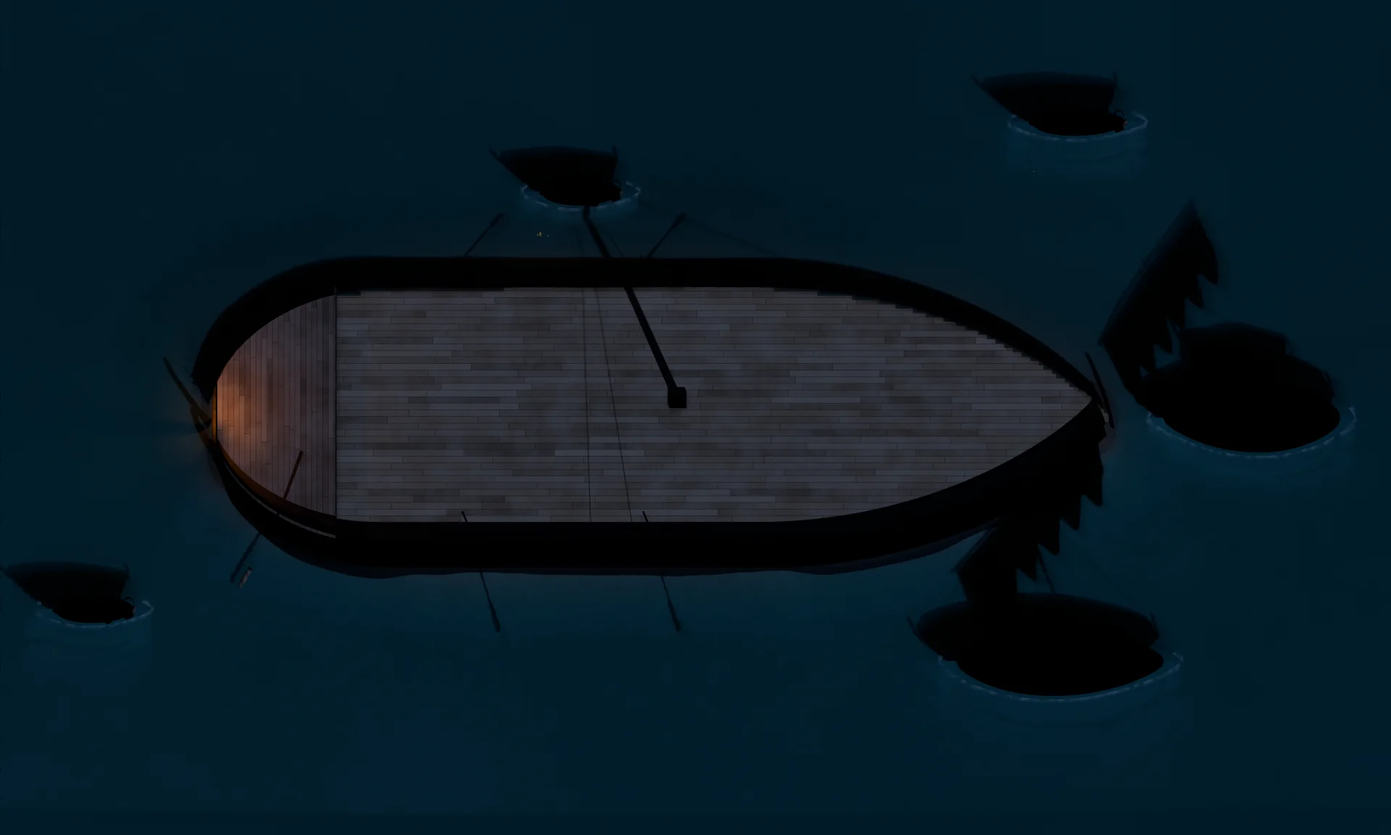
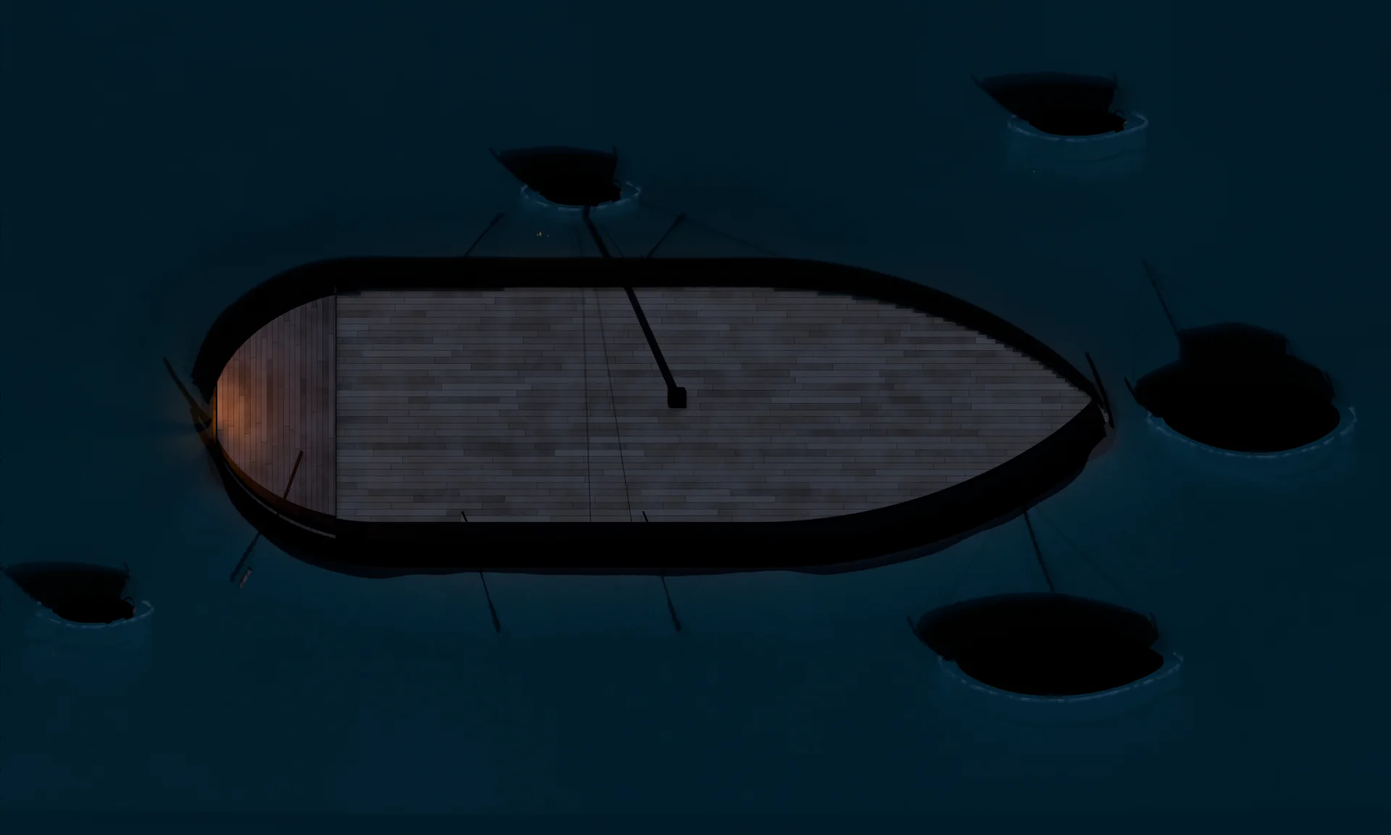
fix(art): the boats around take in their sails when the storm breaks
On the open lake the teacher's boat and the fishing boat kept their sails set
through the squall. Their yards and sails are now story sprites of their own
(sail-set, sail-furled in the open lake's content), shown by the same flag
that brings the storm (storm-broke): set before the squall, the yard lowered
and the sail furled on it from the squall on, and not set again in the calm.
The boats are built without them (lake_boats._yard, entity_sail_set,
entity_sail_furled). A sprite can now go without a shadow catcher
(Sprite(shadow=False)): a sail's shadow would fall on open water. Re-rendered
the open lake's night set. Content test: each boat shows exactly one sail,
never set in the storm.

Also: the guide for the shore, the lake, the fire and the colonnade, sizes;
the storm capture spec waits for the lake rather than for no conversation.

Changed region(s): [[0.7812, 0.25, 0.875, 0.4688], [0.6875, 0.5312, 0.8125, 0.7188]]

diff --git a/tests/content/storm-on-galilee.test.ts b/tests/content/storm-on-galilee.test.ts
@@ -4,6 +4,7 @@ import { chapterSource, parseChapter } from '@/content';
 import { STORM_ON_GALILEE } from '@/content/chapters/storm-on-galilee';
 import { contentReport, reachabilityIssues } from '@/content/validation';
 import { validateChapterIntegrity } from '@/domain/chapter-integrity';
+import { evaluate } from '@/domain/conditions';
 import { weatherOf } from '@/domain/weather';
 import { isSolidTile, parseLayout, type TileKind } from '@/domain/world';
 import { groundColor } from '@/game/art/terrain';
@@ -183,6 +184,41 @@ describe('A Storm on Galilee — content', () => {
     const shore = scene('capernaum-shore');
     expect(weatherOf(shore, makeState())).toBe('wind');
     expect(weatherOf(shore, makeState({ flags: { evening: true } }))).toBe('clear');
+  });
+
+  it('takes in the other boats’ sails when the storm breaks, and never sets them in it', () => {
+    const lake = scene('open-lake');
+    const grid = parseLayout(lake);
+    const sails = lake.entities.filter(
+      (e) => e.sprite === 'sail-set' || e.sprite === 'sail-furled',
+    );
+    // One set sail and one furled for each boat that carries a sail, on its tiles.
+    expect(sails.length).toBeGreaterThanOrEqual(4);
+    for (const s of sails) expect(grid.tiles[s.y]?.[s.x], s.id).toBe('boat');
+    for (const flags of [
+      [],
+      ['wind-rising'],
+      ['wind-rising', 'storm-broke'],
+      ['wind-rising', 'storm-broke', 'great-calm'],
+    ]) {
+      const state = makeState({ flags: Object.fromEntries(flags.map((f) => [f, true])) });
+      const storm = weatherOf(lake, state) === 'storm';
+      for (const s of sails) {
+        const shown = evaluate(s.visibleWhen, state);
+        // Set before the squall; taken in from the squall on (and left so in the calm).
+        const expected =
+          s.sprite === 'sail-set' ? !flags.includes('storm-broke') : flags.includes('storm-broke');
+        expect(shown, `${s.id} with ${flags.join(',') || 'nothing'}`).toBe(expected);
+        if (storm) expect(s.sprite === 'sail-set' && shown, `${s.id} set in the storm`).toBe(false);
+      }
+      // Each boat shows exactly one of its two sails.
+      for (const base of new Set(sails.map((s) => s.id.replace(/-sail(-furled)?$/, ''))))
+        expect(
+          sails.filter((s) => s.id.startsWith(`${base}-sail`) && evaluate(s.visibleWhen, state))
+            .length,
+          base,
+        ).toBe(1);
+    }
   });
 
   it('builds its places from tile kinds that name real things, all of which the painter knows', () => {

diff --git a/src/content/chapters/storm-on-galilee/scenes/open-lake.ts b/src/content/chapters/storm-on-galilee/scenes/open-lake.ts
@@ -16,6 +16,15 @@ const storm = (option: string): Condition => ({
 });
 const talked = (dialogue: string): Condition => ({ type: 'conversationDone', dialogue });
 
+/** The squall has broken: the lake's storm (weatherChanges) and every boat's sail taken in. */
+const STORM_BROKE = flag('storm-broke');
+
+/** The other boats big enough to carry a sail (a tile of each: see the layout). */
+const OTHER_BOATS = [
+  { id: 'teacher-boat', label: 'The teacher’s boat', x: 36, y: 11 },
+  { id: 'fishing-boat', label: 'A fishing boat', x: 29, y: 18 },
+] as const;
+
 /** Wind rises once you've been under way a little while: after any talk, or a walk forward. */
 const GUST_EFFECTS: Effect[] = [
   { type: 'setFlag', flag: 'wind-rising', value: true },
@@ -289,6 +298,31 @@ export const OPEN_LAKE: ChapterInput['scenes'][number] = {
         effects: [{ type: 'openPuzzle', puzzle: 'p-sail' }],
       },
     },
+    // ── The other boats' sails: set in the evening air, taken in when the
+    // squall breaks (the same story state that brings the storm), and not
+    // set again in the calm. Drawn with the boats' art only.
+    ...OTHER_BOATS.flatMap(({ id, label, x, y }) => [
+      {
+        id: `${id}-sail`,
+        kind: 'feature' as const,
+        label: `${label}: its sail set`,
+        sprite: 'sail-set',
+        x,
+        y,
+        solid: false,
+        visibleWhen: not(STORM_BROKE),
+      },
+      {
+        id: `${id}-sail-furled`,
+        kind: 'feature' as const,
+        label: `${label}: its sail taken in`,
+        sprite: 'sail-furled',
+        x,
+        y,
+        solid: false,
+        visibleWhen: STORM_BROKE,
+      },
+    ]),
     {
       id: 'bow',
       kind: 'feature',
@@ -353,7 +387,7 @@ export const OPEN_LAKE: ChapterInput['scenes'][number] = {
   weather: 'clear',
   weatherChanges: [
     { when: flag('wind-rising'), weather: 'wind' },
-    { when: flag('storm-broke'), weather: 'storm' },
+    { when: STORM_BROKE, weather: 'storm' },
     { when: flag('great-calm'), weather: 'clear' },
   ],
 };

diff --git a/src/game/art/props.ts b/src/game/art/props.ts
@@ -824,6 +824,13 @@ const PAINTERS: Record<string, Painter> = {
   },
   /** Invisible: for interactive spots on tiles that already draw themselves (wells, cairns). */
   none: () => undefined,
+  /**
+   * A boat's sail, set or taken in as the story goes: pre-rendered with the
+   * boat (tools/art/lib/lake_boats.py). A painted boat draws its own mast and
+   * sail (boats.ts), so in a painted place these draw nothing.
+   */
+  'sail-set': () => undefined,
+  'sail-furled': () => undefined,
 };
 
 /** Whether a sprite name has a painter (content tests use this to catch typos). */

diff --git a/e2e/storm-art.spec.ts b/e2e/storm-art.spec.ts
@@ -146,8 +146,9 @@ for (const vp of VIEWPORTS) {
         timeout: 20_000,
       });
       await shot('shore-evening', 2500);
+      // The boats put out: the lake's arrival narration may open at once, so
+      // wait for the place rather than for no conversation.
       await continueDialogue(page);
-      await endDialogue(page);
       await expectScene(page, 'Out on the lake');
       await shot('lake-arrival', 300);
       await page.waitForTimeout(400);

diff --git a/tools/art/lib/lake_boats.py b/tools/art/lib/lake_boats.py
@@ -235,9 +235,10 @@ class BoatsMixin:
         _loft(bm, rings, closed=True)
         return common.mesh_object(name, bm, mat, None)
 
-    def _boat_parts(self, name, L, B, xf, afloat, rig, rng, gear=True, lamp=False, teacher=False):
+    def _boat_parts(self, name, L, B, xf, afloat, rig, rng, gear=True, lamp=False, teacher=False, yard=True):
         """Every part of one boat, as (above, below): the objects above the
-        waterline (its sprite) and those below it (ground, afloat only)."""
+        waterline (its sprite) and those below it (ground, afloat only).
+        `yard`: False when the story shows its yard and sail (_yard)."""
         L_HULL = LM.hull_paint("#5c4634", name="hull-outside")
         inner = LM.planks("#806850", "hull-inside", along="X", width=0.16, length=2.2, worn=0.2)
         hull = self._hull_mesh(f"{name}-hull", L, B, xf, L_HULL, inner)
@@ -317,7 +318,7 @@ class BoatsMixin:
             bench.matrix_world = Matrix.Identity(4)
             above.append(bench)
         if rig and L >= 4.0:
-            above += self._rig(name, L, B, xf, rig, rng, teacher=teacher)
+            above += self._rig(name, L, B, xf, rig, rng, teacher=teacher, yard=yard)
         if gear:
             above += self._boat_gear(name, L, B, xf, afloat, rng, rig == "lowered")
         if afloat and not teacher and rig != "lowered":
@@ -408,9 +409,11 @@ class BoatsMixin:
         base.name = name
         return base
 
-    def _rig(self, name, L, B, xf, rig, rng, teacher=False):
+    def _rig(self, name, L, B, xf, rig, rng, teacher=False, yard=True):
         """Mast, yard and sail: stepped and standing with the sail furled on
-        the yard (moored), or lowered along the boat (drawn up)."""
+        the yard (moored), or set (sailing), or lowered along the boat (drawn
+        up). With `yard` False, only the mast and its standing rigging: the
+        story shows the yard and sail (`_yard`, set or taken in)."""
         out = []
         spar = M.wood("#6a5238", 3.5)
         # Linen greyed and browned by years of sun and lake water.
@@ -419,7 +422,6 @@ class BoatsMixin:
         u_mast = 0.64
         hb, sheer, keel = self.hull_shape(u_mast, L, B)
         mast_h = min(7.2, 0.82 * L + 0.4)
-        yard = min(7.5, 0.86 * L)
         base = Vector((-L / 2 + u_mast * L, 0.0, keel + 0.2))
         if rig == "lowered":
             # Mast lying along the thwarts, yard beside it with the sail rolled on it.
@@ -433,25 +435,8 @@ class BoatsMixin:
             return out
         top = base + Vector((0, 0, mast_h))
         out.append(self._branch(f"{name}-mast", xf @ base, xf @ top, 0.075 * min(1.0, L / 8), 0.05 * min(1.0, L / 8), spar, 10, bow=0.0))
-        if rig == "moored":
-            # At rest: the yard lowered and lashed along the thwarts, the sail
-            # furled on it, the mast standing bare.
-            a2 = xf @ Vector((-L * 0.36, -0.12, sheer + 0.02))
-            b2 = xf @ Vector((L * 0.4, -0.08, sheer + 0.05))
-            out.append(self._branch(f"{name}-yard", a2, b2, 0.045, 0.04, spar, 8, bow=0.0))
-            out.append(self._furled(f"{name}-furl", a2 + Vector((0, 0, 0.1)), b2 + Vector((0, 0, 0.1)), sail, rng, r=0.13))
-        else:
-            # Under way: the yard up and braced round to the wind, the sail
-            # half brailed up beneath it.
-            yz = mast_h - 0.35
-            brace = math.radians(38.0)
-            d = Vector((math.sin(brace), math.cos(brace), 0.0))
-            c = base + Vector((0.08, 0.0, yz))
-            ya = xf @ (c + d * yard / 2)
-            yb = xf @ (c - d * yard / 2)
-            out.append(self._branch(f"{name}-yard", ya, yb, 0.045, 0.04, spar, 8, bow=-0.06))
-            fwd = (xf.to_3x3() @ Vector((1.0, 0.0, 0.0))).normalized()
-            out.append(self.square_sail(f"{name}-sail", (ya + yb) / 2 + Vector((0, 0, -0.06)), (ya - yb).normalized(), yard - 0.3, min(2.6, 0.4 * L), fwd, sail))
+        if yard:
+            out += self._yard(name, L, B, xf, "furled" if rig == "moored" else "set", rng)
         # Standing rigging: shrouds to both rails, a forestay, the halyard.
         mh = xf @ (base + Vector((0, 0, mast_h - 0.1)))
         for side in (1, -1):
@@ -463,6 +448,62 @@ class BoatsMixin:
         out.append(self._branch(f"{name}-halyard", mh, xf @ Vector((-L / 2 + 0.5, 0.0, sheer_s)), 0.007, 0.007, rope, 4, bow=0.0))
         _ = teacher
         return out
+
+    def _yard(self, name, L, B, xf, state, rng):
+        """A boat's yard and sail. `set`: under way, the yard up and braced
+        round to the wind, the sail half brailed up beneath it. `furled`: at
+        rest, or with the sail taken in against a squall: the yard lowered
+        and lashed along the thwarts, the sail furled on it, the mast bare."""
+        spar = M.wood("#6a5238", 3.5)
+        sail = LM.linen("#a89c82", "sail-linen-worn")
+        u_mast = 0.64
+        _hb, sheer, keel = self.hull_shape(u_mast, L, B)
+        mast_h = min(7.2, 0.82 * L + 0.4)
+        length = min(7.5, 0.86 * L)
+        base = Vector((-L / 2 + u_mast * L, 0.0, keel + 0.2))
+        if state == "furled":
+            a2 = xf @ Vector((-L * 0.36, -0.12, sheer + 0.02))
+            b2 = xf @ Vector((L * 0.4, -0.08, sheer + 0.05))
+            return [
+                self._branch(f"{name}-yard", a2, b2, 0.045, 0.04, spar, 8, bow=0.0),
+                self._furled(f"{name}-furl", a2 + Vector((0, 0, 0.1)), b2 + Vector((0, 0, 0.1)), sail, rng, r=0.13),
+            ]
+        yz = mast_h - 0.35
+        brace = math.radians(38.0)
+        d = Vector((math.sin(brace), math.cos(brace), 0.0))
+        c = base + Vector((0.08, 0.0, yz))
+        ya = xf @ (c + d * length / 2)
+        yb = xf @ (c - d * length / 2)
+        fwd = (xf.to_3x3() @ Vector((1.0, 0.0, 0.0))).normalized()
+        return [
+            self._branch(f"{name}-yard", ya, yb, 0.045, 0.04, spar, 8, bow=-0.06),
+            self.square_sail(f"{name}-sail", (ya + yb) / 2 + Vector((0, 0, -0.06)), (ya - yb).normalized(), length - 0.3, min(2.6, 0.4 * L), fwd, sail),
+        ]
+
+    def _story_sails(self, fp):
+        """The story's sail entities on a boat (sprites `sail-set` and
+        `sail-furled`, shown as the story goes): its yard and sail are theirs."""
+        tiles = set(map(tuple, fp["tiles"]))
+        return [e for e in self.map.entities if e.get("sprite") in ("sail-set", "sail-furled") and (e["x"], e["y"]) in tiles]
+
+    def entity_sail_set(self, name, x, y, e=None):
+        """The yard and sail of the boat under (x, y), set: shown until the squall."""
+        return self._story_yard(name, x, y, "set")
+
+    def entity_sail_furled(self, name, x, y, e=None):
+        """The yard and sail of the boat under (x, y), taken in: shown from the squall on."""
+        return self._story_yard(name, x, y, "furled")
+
+    def _story_yard(self, name, x, y, state):
+        rig = next((r for r in getattr(self, "_story_rigs", []) if (x, y) in r["tiles"]), None)
+        if rig is None:
+            return None
+        objs = self._yard(name, rig["L"], rig["B"], rig["xf"], state, common.rng(int(x * 131 + y * 17)))
+        for o in objs:
+            o["wl_z"] = rig["zb"]
+        # Sorted with its boat; no shadow of its own (it would fall on open
+        # water, whose terrain is the lake bed); faded like the boat's rig.
+        return objs, rig["south"] * 32.0, False, {"shadow": False, "fade": True}
 
     def _furled(self, name, a, b, mat, rng, r=0.14):
         """A sail gathered up on its yard: a long lumpy roll with the brails
@@ -622,7 +663,10 @@ class BoatsMixin:
                 # Heeled a little onto its bilge.
                 xf = xf @ Matrix.Rotation(0.06 * (1 if rng.random() < 0.5 else -1), 4, "X")
             is_teacher = teacher is not None and fp is teacher
-            above, below = self._boat_parts(name, L, B, xf, fp["afloat"], rig, rng, gear=not is_teacher, lamp=fp["afloat"] and not is_teacher and bool(self.map.tiles("deck")), teacher=is_teacher)
+            # A boat whose sail the story sets and takes in (entity_sail_set,
+            # entity_sail_furled) is built without its yard and sail.
+            story = rig == "sailing" and bool(self._story_sails(fp))
+            above, below = self._boat_parts(name, L, B, xf, fp["afloat"], rig, rng, gear=not is_teacher, lamp=fp["afloat"] and not is_teacher and bool(self.map.tiles("deck")), teacher=is_teacher, yard=not story)
             for o in below:
                 self.to_ground(o)
             if fp["afloat"]:
@@ -636,6 +680,8 @@ class BoatsMixin:
             # The ground line: the south edge of the hull at the waterline.
             south = cy + (B / 2 if fp["horizontal"] else L / 2)
             self.sprite(name, south, above, fp["tiles"], fade=rig in ("sailing", "moored"))
+            if story:
+                self._story_rigs = getattr(self, "_story_rigs", []) + [{"tiles": set(map(tuple, fp["tiles"])), "L": L, "B": B, "xf": xf, "zb": zb, "south": south}]
 
     def _teacher_boat(self):
         """The boat the crowd listens to (people sitting on the beach facing

diff --git a/tools/art/lib/place.py b/tools/art/lib/place.py
@@ -192,9 +192,13 @@ class Sprite:
       not cast shadows into the ground layer or onto other sprites; it
       carries its own shadow instead (a shadow catcher under it);
     - `flat`: lies on the ground (prints, a mat): anyone standing on it
-      draws over it, so its base is its northern edge."""
+      draws over it, so its base is its northern edge;
+    - `shadow`: a conditional thing carries its own shadow on a catcher
+      laid on the terrain under it; False for one whose shadow would fall
+      where no catcher can hold it (a sail over open water, whose terrain
+      is the lake bed)."""
 
-    def __init__(self, sid, base, objects, tiles=None, conditional=False, flat=False, fade=False):
+    def __init__(self, sid, base, objects, tiles=None, conditional=False, flat=False, fade=False, shadow=True):
         self.id = sid
         self.base = base
         self.objects = objects
@@ -203,6 +207,7 @@ class Sprite:
         self.flat = flat
         # A canopy (a palm's crown): the game fades it while someone walks behind it.
         self.fade = fade
+        self.shadow = shadow
 
 
 def value_noise(w, h, cell, seed):
@@ -604,8 +609,10 @@ class Place(LakeKit, VillageKit, RomanKit, GroundKit, MasonryKit, PropsKit, Plan
             made = maker(sid, e["x"], e["y"], e)
             if made is None:
                 continue
-            objs, base, flat = made if isinstance(made, tuple) else (made, (e["y"] + 0.85) * 32, False)
-            self.sprites.append(Sprite(sid, base, objs, [(e["x"], e["y"])], conditional=e.get("conditional", False), flat=flat))
+            # A builder returns its objects, or (objects, base, flat[, Sprite options]).
+            objs, base, flat, *more = made if isinstance(made, tuple) else (made, (e["y"] + 0.85) * 32, False)
+            options = more[0] if more else {}
+            self.sprites.append(Sprite(sid, base, objs, [(e["x"], e["y"])], conditional=e.get("conditional", False), flat=flat, **options))
 
     # ── dressing ────────────────────────────────────────────────────────────
     def _dressing(self):

diff --git a/tools/art/build_place.py b/tools/art/build_place.py
@@ -361,7 +361,7 @@ def main():
     def render_sprite(sp, variant):
         """One standing thing, cropped: (crop, screen left, top) or None."""
         mine = set(sp.objects)
-        extra = {catcher_for(p, sp)} if sp.conditional else set()
+        extra = {catcher_for(p, sp)} if sp.conditional and sp.shadow else set()
         others_conditional = conditional - mine
         x0, y0, x1, y1 = screen_rect(sp.objects)
         for cat in extra:

diff --git a/docs/art/technical-art-guide.md b/docs/art/technical-art-guide.md
@@ -68,7 +68,7 @@ The sky is Blender's multiple-scattering sky, set for the same sun. It gives the
 
 **The night bake and the game's grade.** The game grades night on top of any art: a multiply layer (blue-grey, darker at the edges) and a post-processing grade (less saturation, a blue white balance, bloom on bright lamps). Over a night bake the multiply is gentled (`overBakedArt`: 30% strength, the vignette at most 0.42), so the art is not darkened twice but still gathers the dark round the lamps; bloom makes the fire and lamps glow. Day art shown at night (a Chapter 1 place after dark) keeps the full night. Look at a night set's ground after rendering it: once, on a GPU shared with another render, the fold's night ground came out with its terrain unlit (only the scattered grass caught the moon: a median of 1 of 255 against 29 when rendered again), and nothing else flags that.
 
-**A fire burning in day and night sets** needs its own night version. Night is rendered 2.2 EV brighter, so the day's fire (150 W a hand above the coals) blew the shepherds' ring of stones out to near white, and the game's bloom added more. The campfire (`tile_campfire` in [`kit_village.py`](../../tools/art/lib/kit_village.py)) has a separate night light (55 W, set a little higher and as wide as the flames, so its falloff is flatter and its shadows soft), and night copies of its flames and embers (a third of the emission) and of its ring (soot-blackened stone), each tagged with its lights (`_by_light`).
+**A fire burning in day and night sets** needs its own night version. Night is rendered 2.2 EV brighter, so the day's fire (150 W a hand above the coals) blew the shepherds' ring of stones out to near white, and the game's bloom added more. The campfire (`tile_campfire` in [`kit_village.py`](../../tools/art/lib/kit_village.py)) has a separate night light (55 W, set a little higher and as wide as the flames, so its falloff is flatter and its shadows soft), and night copies of its flames and embers (a third of the emission) and of its ring (soot-blackened stone), each tagged with its lights (`_by_light`). The same goes for rooms, rendered about 3 EV brighter than outdoors: the dye vats' stoke-holes in Ammia's workshop were flat emissive slabs of strength 4 that came out white-pink; they are now a few coals of the village kit's `embers` material (strength 1.4, cracked, mostly dark crust) with a 2 W light in the mouth that throws a small warm pool on the floor, ash raked out in front, and a flickering hearth spot each (`_dye_vat` in [`roman_props.py`](../../tools/art/lib/roman_props.py)). Emission bright enough to read outdoors by day blows out in a room or at night; give such things their own strength in those lights.
 
 **Rooms** are lit as if closed: their side and front walls and their roof are *occluders*, invisible to the camera but blocking light (§4). Light comes in only through the openings: the sun through a window in the east wall and through the door, plus the room's own lights (an oil lamp in a niche, the oven's embers). A room renders at +3.1 EV over the outdoor exposure, as a camera adapts, and at 512 samples (its light is mostly bounced). Two lights stand in for what the closed shell would bounce: a soft warm panel low in the doorway (daylight off the sunlit ground outside) and a broad, dim warm panel under the roof (light off the floor and walls), without which the corners go black. The cut tops of the walls sit directly under the invisible walls, so no light reaches them: they glow faintly (`limestone(glow=)`) and read as a dark section through the wall, as in an architect's cutaway. The walls that block light are thinner than their tiles (0.45 m): at 40° a sunbeam drops a whole tile crossing a tile-thick wall, which would shut the morning sun out of any window. Dust shows in the sunbeams as a thin scattering volume confined to each beam: lit straight by the sun, it settles quickly (a volume filling the room did not, and the denoiser turned its noise into blotches).
 
@@ -253,7 +253,11 @@ A change to anything that casts shadows onto the ground (a building, a tree) nee
 - **A house fills exactly its own tiles on screen**: its north wall stands one row in from its top row (`min(n + height, gy - 1)`), so nobody in the lane behind it is hidden.
 - **Things of one light only** (lamps lit at night, doors open by day and shut at night, the day's bounced light in a room) are tagged with the lights they belong to, and fires and lamps that should flicker go in `Place.flicker` (see §3).
 
-**The lake.** Every surface people stand on is the terrain, so `P` always finds it: the beach slopes to a waterline that wanders a little across the tiles (a warped, blurred reading of the map), the jetty's blocks stand on a raised strip (the terrain is the bottom of their joints: `floor_z` lifts things set on it), a boat's deck is a plateau inside its bulwarks, and under the water the bed shelves away (going south it never falls more than a tile per tile, so no mesh folds). The water is one flat, refracting surface (not casting shadows) over a principled volume that absorbs red first and scatters a little blue-green, far larger than the map so no ray finds its sides; a lacy band of foam and a wet dark band of pebbles follow the waterline (a contour of the heights). Standing things are sheared by the height of what they stand on (`_at(x, y, z, base)`), never by their own height. Floating hulls are cut at the waterline: the part above is the boat's sprite, the part below goes into the ground, seen dimly through the water. Neighbouring `boat` tiles make one boat after the Ginosar boat, growing toward its proportions only over water (never over ground anyone walks on); drawn up on the beach it rests on its keel, mast lowered. The boat offshore that a crowd on the beach faces has a goat-hair shade rigged over it, so no one aboard can be seen; the boat you are aboard is cut into two sprites per map row (its stern and bow halves: between them a row holds only deck). The lake is baked calm: the game draws the wind, the rain and the storm's swell over it (its water shader covers `lake` and `shallows` tiles, with a darker sky and deep colour in a `night` set: `waterSky` in [`water.ts`](../../src/game/systems/water.ts)).
+**The lake.** Every surface people stand on is the terrain, so `P` always finds it: the beach slopes to a waterline that wanders a little across the tiles (a warped, blurred reading of the map), the jetty's blocks stand on a raised strip (the terrain is the bottom of their joints: `floor_z` lifts things set on it), a boat's deck is a plateau inside its bulwarks, and under the water the bed shelves away (going south it never falls more than a tile per tile, so no mesh folds). The water is one flat, refracting surface (not casting shadows) over a principled volume that absorbs red first and scatters a little blue-green, far larger than the map so no ray finds its sides; a lacy band of foam and a wet dark band of pebbles follow the waterline (a contour of the heights). Standing things are sheared by the height of what they stand on (`_at(x, y, z, base)`), never by their own height. Floating hulls are cut at the waterline: the part above is the boat's sprite, the part below goes into the ground, seen dimly through the water. Neighbouring `boat` tiles make one boat after the Ginosar boat, growing toward its proportions only over water (never over ground anyone walks on); drawn up on the beach it rests on its keel, mast lowered. The boat offshore that a crowd on the beach faces has a goat-hair shade rigged over it, so no one aboard can be seen; the boat you are aboard is cut into two sprites per map row (its stern and bow halves: between them a row holds only deck). The lake is baked calm: the game draws the wind, the rain and the storm's swell over it (its water shader covers `lake` and `shallows` tiles, with a darker sky and deep colour in a `night` set: `waterSky` in [`water.ts`](../../src/game/systems/water.ts)). Some choices worth knowing:
+
+- **The shore's later-day set is exposed 0.3 EV brighter** (`variant_exposure["late"]`, set in `regional_materials`): a town of black basalt under a sun 21° up otherwise read as dusk come early. It is still a late afternoon: the sun, its colour and the long shadows are unchanged.
+- **The middle house's lit door** opens into a room (`_lit_room` in [`lake_houses.py`](../../tools/art/lib/lake_houses.py)): its hole runs 2.8 m into the house, with an earth floor, a mat, a jar and a basket, and a clay lamp on a wooden stand just inside by the east jamb. After dark the doorway's dark fill goes (it stays by day), and the lamp's light (32 W, set high) falls out through the door in a wedge cut by the jambs and lintel. A flat emissive panel in the doorway, as before, read as an orange card.
+- **The other boats' sails follow the story.** A boat under way whose tiles hold the story's sail entities (sprites `sail-set` and `sail-furled`, in the open lake's content) is built without its yard and sail; `entity_sail_set` and `entity_sail_furled` build them as sprites of their own (the yard braced round with the sail half brailed, or lowered along the thwarts with the sail furled on it), sorted and faded with the boat. They are shown by the flag that brings the storm (`storm-broke`), so no boat around keeps its sail set in the squall, and none sets it again in the calm. They carry no shadow (`Sprite(shadow=False)`: a sail's shadow would fall on open water, whose terrain is the lake bed, where no catcher can hold it). An entity builder can pass such options as a fourth item: `(objects, base, flat, {"shadow": False, "fade": True})`.
 
 **The Roman kit.** A place is Roman when its chapter is in `ROMAN_CHAPTERS`. It keeps the style its mood gives it (the street is `city`, the road `oasis`, the rooms `home`), so every shared builder still works; the kit, mixed in ahead of the others, overrides only what differs and calls the shared builder for any other place. It is split by subject: [`roman_geom.py`](../../tools/art/lib/roman_geom.py) (helpers, shared materials), [`roman_materials.py`](../../tools/art/lib/roman_materials.py) (stucco, roof tile, marble, bronze, dyes, river water, paving, opus signinum, mosaic, fresco, travertine, wool, papyrus, and the pattern images drawn by code: a mosaic's design, a painted wall, a milestone's worn lines), [`roman_arch.py`](../../tools/art/lib/roman_arch.py) (tile roofs of tegulae and imbrices with antefixes, the Ionic order, house fronts, doors, windows), [`roman_props.py`](../../tools/art/lib/roman_props.py), [`roman_town.py`](../../tools/art/lib/roman_town.py), [`roman_valley.py`](../../tools/art/lib/roman_valley.py) and [`roman_rooms.py`](../../tools/art/lib/roman_rooms.py). Kinds with a dash are built by `tile_` plus the kind with underscores (`tile-roof`: `tile_tile_roof`).
 
@@ -298,9 +302,9 @@ Measured on the art in `public/art/` as rendered (September 2026). Texture memor
 | | later day | 1.95 MB | 0.70 MB | 48.7 MB | 13.4 MB | 4 / 1 | 2 |
 | Grandmother Shelomit's house (Ch. 2) | later day | 0.20 MB | 0.07 MB | 7.4 MB | 2.1 MB | 1 / 1 | 1 |
 | | lamplight (night) | 0.14 MB | 0.06 MB | 7.4 MB | 2.1 MB | 1 / 1 | 1 |
-| The shore at Capernaum (Ch. 2) | later day | 2.21 MB | 0.86 MB | 65.3 MB | 18.3 MB | 6 / 2 | 2 |
-| | night | 1.68 MB | 0.66 MB | 64.1 MB | 18.0 MB | 6 / 2 | 2 |
-| The open lake (Ch. 2) | night (its only set) | 0.35 MB | 0.15 MB | 61.4 MB | 16.9 MB | 4 / 1 | 2 |
+| The shore at Capernaum (Ch. 2) | later day | 2.23 MB | 0.81 MB | 65.3 MB | 18.3 MB | 6 / 2 | 2 |
+| | night | 1.56 MB | 0.58 MB | 64.1 MB | 18.0 MB | 6 / 2 | 2 |
+| The open lake (Ch. 2) | night (its only set) | 0.34 MB | 0.14 MB | 60.1 MB | 16.6 MB | 4 / 1 | 2 |
 | Ammia's dye workshop (Ch. 4) | morning | 0.19 MB | 0.06 MB | 12.7 MB | 3.6 MB | 2 / 1 | 1 |
 | A street in Colossae (Ch. 4) | morning | 1.02 MB | 0.37 MB | 51.6 MB | 14.3 MB | 4 / 1 | 2 |
 | | later day | 0.93 MB | 0.36 MB | 52.9 MB | 14.6 MB | 4 / 1 | 2 |
@@ -311,7 +315,7 @@ Measured on the art in `public/art/` as rendered (September 2026). Texture memor
 | The lanes of Bethlehem (Ch. 3) | later day (its day set) | 1.50 MB | 0.53 MB | 58.6 MB | 16.1 MB | 4 / 1 | 2 |
 | | night | 1.11 MB | 0.40 MB | 57.4 MB | 15.8 MB | 4 / 1 | 2 |
 | The fold below Bethlehem (Ch. 3) | later day (its day set) | 3.21 MB | 1.10 MB | 62.8 MB | 17.6 MB | 4 / 1 | 2 |
-| | night | 2.68 MB | 0.99 MB | 62.8 MB | 17.6 MB | 4 / 1 | 2 |
+| | night | 2.67 MB | 0.98 MB | 62.8 MB | 17.6 MB | 4 / 1 | 2 |
 | People for Chapter 1 (every sheet, shadow and overlay) | morning and indoor | 3.83 MB (107 files) | | | | | |
 | | later day | 2.36 MB (76 files) | | | | | |
 | People added for Chapter 2 | later day, indoor and lamp | 1.38 MB (42 files) | | | | | |
@@ -327,7 +331,7 @@ Measured on the art in `public/art/` as rendered (September 2026). Texture memor
 
 The fold below Bethlehem is the heaviest of Chapter 3 (138 sprites: the flock, olives, thorn shrubs, rocks and stones on the hills); at night its pages compress better (dark, little detail). A night set takes as much texture memory as a day set but downloads a fifth to a quarter less.
 
-The open lake downloads little (its water is smooth and compresses well). Its family boat is cut into sprites by map row, and each row in two, its stern and bow halves: most rows hold only the curved bulwarks at the two ends, and one sprite spanning the boat was mostly transparent texture (four sprite pages, 81.5 MB, before the split; two, 61.4 MB, after).
+The open lake downloads little (its water is smooth and compresses well). Its family boat is cut into sprites by map row, and each row in two, its stern and bow halves: most rows hold only the curved bulwarks at the two ends, and one sprite spanning the boat was mostly transparent texture (four sprite pages, 81.5 MB, before the split; two, 61.4 MB, after; 60.1 MB since the boats around carry their yards and sails as story sprites).
 
 The Laodicea road is the heaviest download so far: 140 sprites, most of them reeds and young grain whose fine detail WebP compresses poorly (its two big sprite pages are 1.1 and 1.9 MB). Merging the grain into the ground layer (it is solid, so nobody walks through it) would roughly halve it.
 
